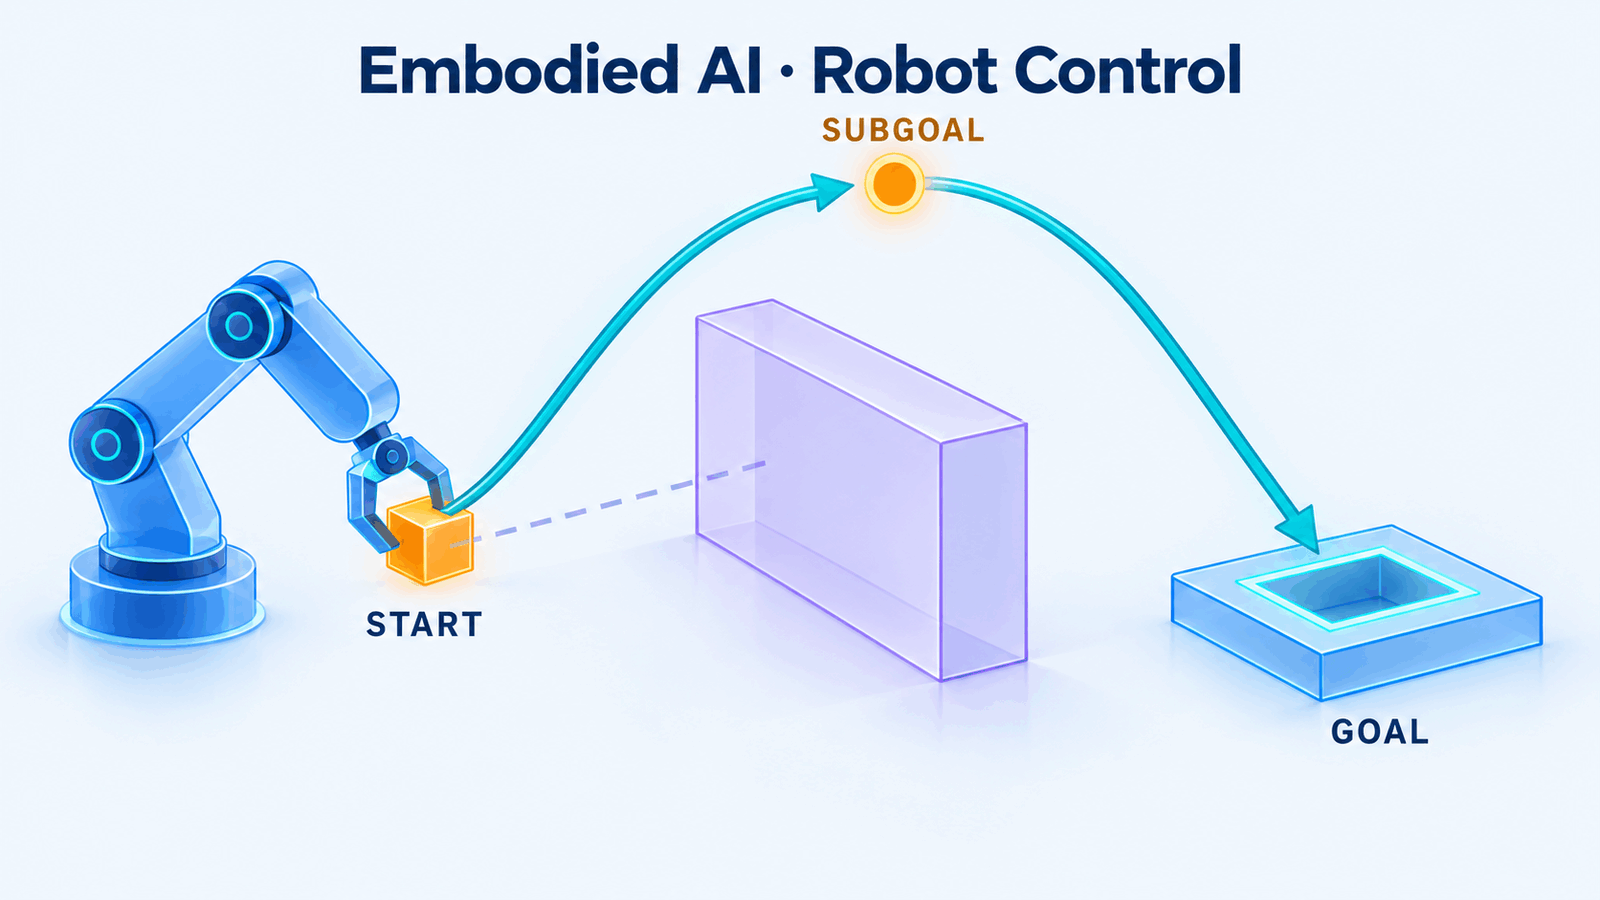
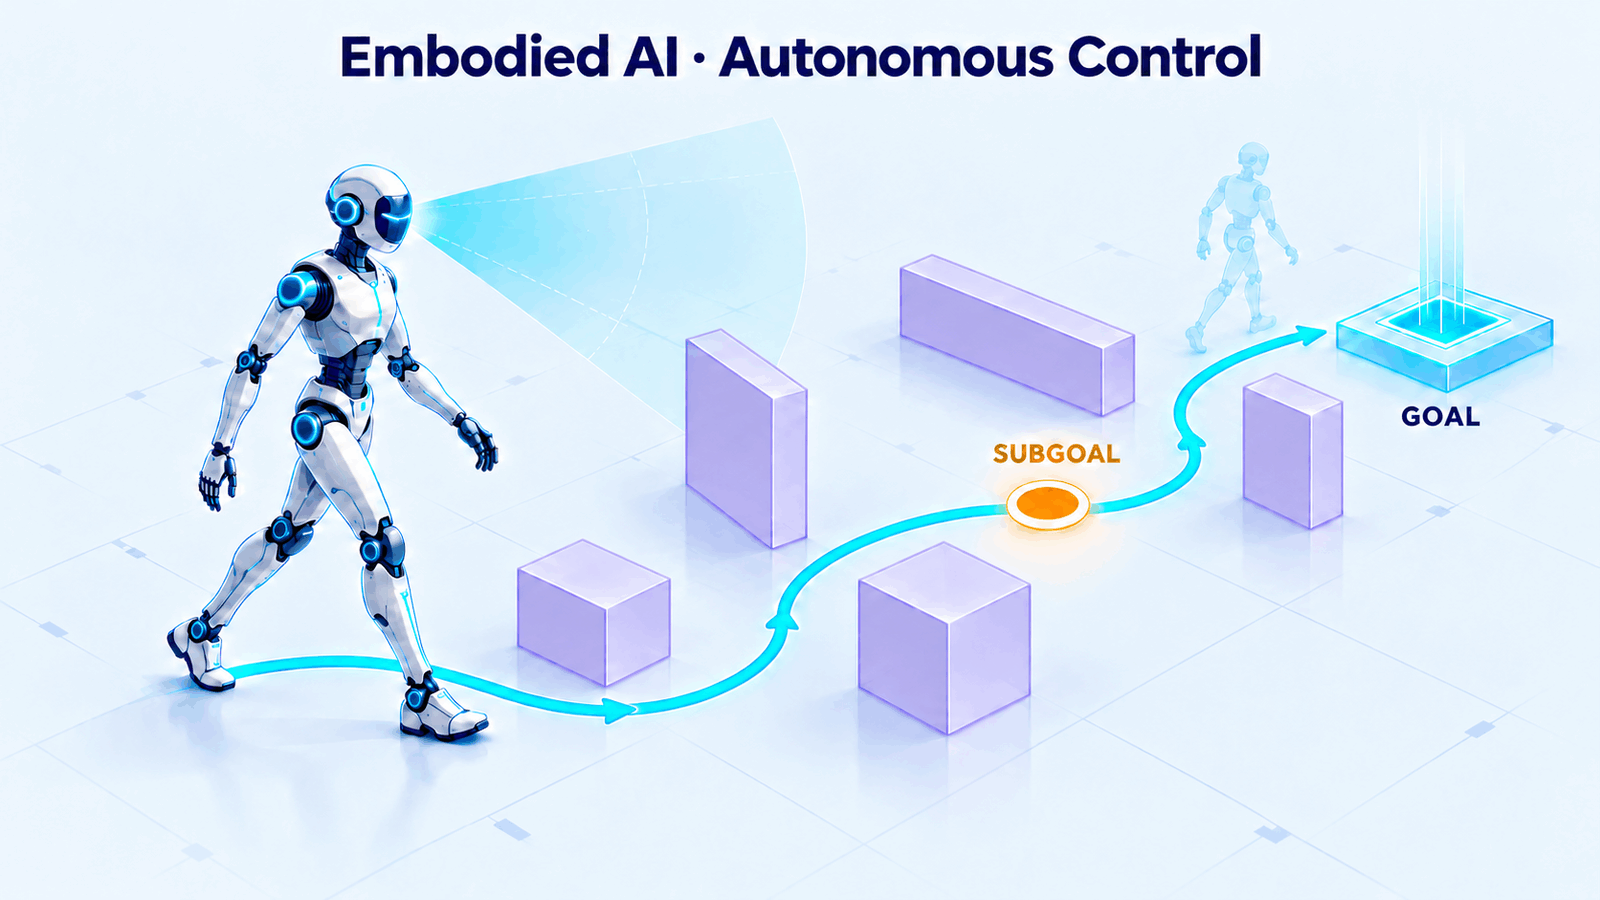
Replace robot-arm application figure with autonomous robot navigation illustration

diff --git a/index.html b/index.html
@@ -866,8 +866,8 @@
           <article class="paper-card">
             <div class="paper-gallery" role="group" aria-label="応用イメージ / 原理図" data-pause="自動切り替えを一時停止" data-play="自動切り替えを再開">
               <div class="paper-slides">
-                <a class="paper-figure paper-slide" href="Figures/papers/applications/subgoal@2x.png?v=light-1" target="_blank" rel="noopener noreferrer" aria-label="具身知能・ロボット制御：サブゴールを経て障害を回避する応用イメージ">
-                  <img src="Figures/papers/applications/subgoal.png?v=light-1" srcset="Figures/papers/applications/subgoal@2x.png?v=light-1 2x" width="1600" height="900" loading="lazy" alt="具身知能・ロボット制御：サブゴールを経て障害を回避する応用イメージ">
+                <a class="paper-figure paper-slide" href="Figures/papers/applications/subgoal@2x.png?v=robot-2" target="_blank" rel="noopener noreferrer" aria-label="具身知能・自律制御：ロボットが環境を認識し、サブゴールを経て障害物を回避する応用イメージ">
+                  <img src="Figures/papers/applications/subgoal.png?v=robot-2" srcset="Figures/papers/applications/subgoal@2x.png?v=robot-2 2x" width="1600" height="900" loading="lazy" alt="具身知能・自律制御：ロボットが環境を認識し、サブゴールを経て障害物を回避する応用イメージ">
                   <span>応用イメージ · クリックで拡大 ↗</span>
                 </a>
             <a class="paper-figure paper-slide" hidden href="Figures/papers/subgoal@2x.png?v=4" target="_blank" rel="noopener noreferrer" aria-label="凍結エンコーダー、軽量条件ヘッド、凍結予測器によるサブゴール生成と低層MPCの概念図（大きな画像を開く）">

diff --git a/index_en.html b/index_en.html
@@ -798,8 +798,8 @@
           <article class="paper-card">
             <div class="paper-gallery" role="group" aria-label="Application / Method" data-pause="Pause slideshow" data-play="Play slideshow">
               <div class="paper-slides">
-                <a class="paper-figure paper-slide" href="Figures/papers/applications/subgoal@2x.png?v=light-1" target="_blank" rel="noopener noreferrer" aria-label="Embodied AI and robot control: reaching a goal via a subgoal around an obstacle">
-                  <img src="Figures/papers/applications/subgoal.png?v=light-1" srcset="Figures/papers/applications/subgoal@2x.png?v=light-1 2x" width="1600" height="900" loading="lazy" alt="Embodied AI and robot control: reaching a goal via a subgoal around an obstacle">
+                <a class="paper-figure paper-slide" href="Figures/papers/applications/subgoal@2x.png?v=robot-2" target="_blank" rel="noopener noreferrer" aria-label="Embodied AI and autonomous control: a robot perceives its environment and navigates around obstacles via a subgoal">
+                  <img src="Figures/papers/applications/subgoal.png?v=robot-2" srcset="Figures/papers/applications/subgoal@2x.png?v=robot-2 2x" width="1600" height="900" loading="lazy" alt="Embodied AI and autonomous control: a robot perceives its environment and navigates around obstacles via a subgoal">
                   <span>Application · Click to enlarge ↗</span>
                 </a>
             <a class="paper-figure paper-slide" hidden href="Figures/papers/subgoal@2x.png?v=4" target="_blank" rel="noopener noreferrer" aria-label="Simplified flow from frozen encoder through a lightweight condition head and frozen predictor to a subgoal and low-level MPC (open full-size image)">
